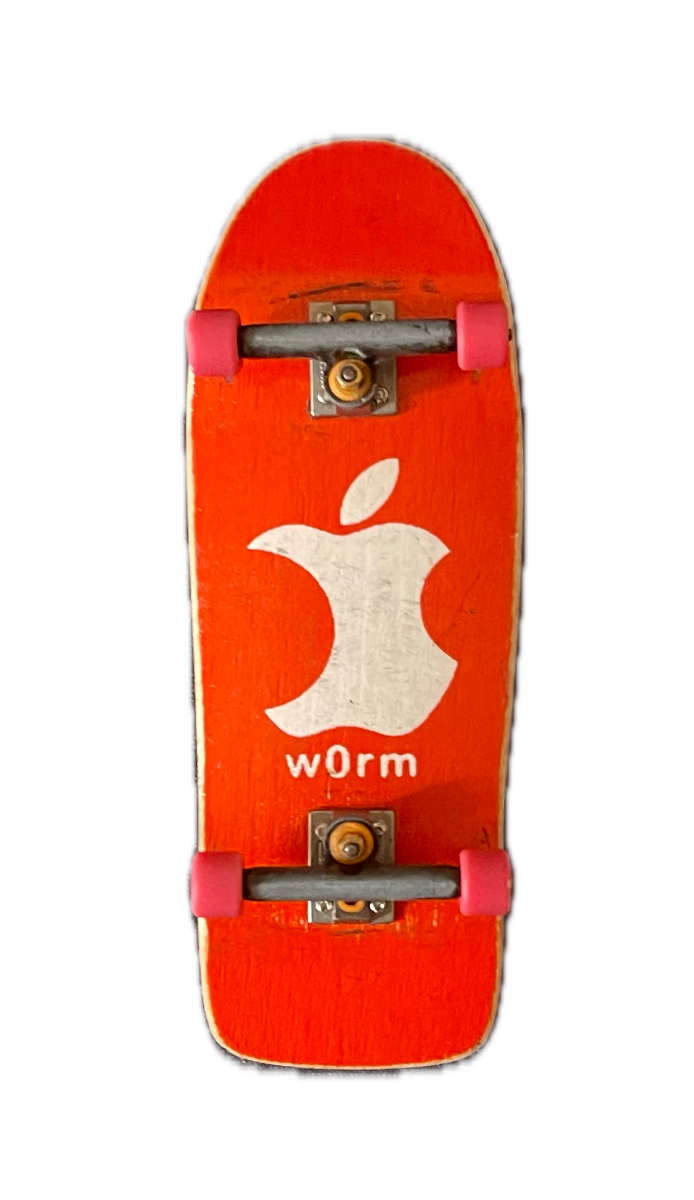
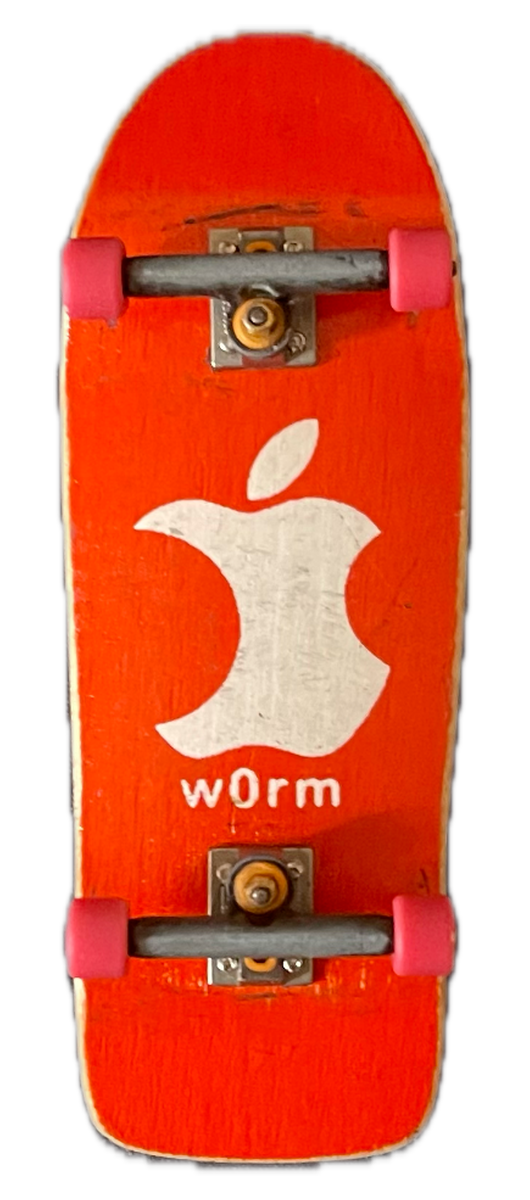
Collection: trim and refit the two new Worm decks; editor now trims transparent margins and fits decks to 530x1200

diff --git a/admin.js b/admin.js
@@ -325,12 +325,30 @@ app.addEventListener("click", (e) => {
 // Resize in the browser (max 1200px tall / 1400px wide) so the site stays fast.
 async function prepareImage(file) {
   const bitmap = await createImageBitmap(file);
-  const scale = Math.min(1, 1200 / bitmap.height, 1400 / bitmap.width);
-  const canvas = document.createElement("canvas");
-  canvas.width = Math.round(bitmap.width * scale);
-  canvas.height = Math.round(bitmap.height * scale);
-  canvas.getContext("2d").drawImage(bitmap, 0, 0, canvas.width, canvas.height);
   const isJpeg = file.type === "image/jpeg";
+  let src = bitmap, sx = 0, sy = 0, sw = bitmap.width, sh = bitmap.height;
+  // Transparent cutouts: trim the empty margin so every deck fills its frame the same way.
+  if (!isJpeg) {
+    const t = document.createElement("canvas"); t.width = sw; t.height = sh;
+    const tx = t.getContext("2d", { willReadFrequently: true }); tx.drawImage(bitmap, 0, 0);
+    const d = tx.getImageData(0, 0, sw, sh).data;
+    let x0 = sw, y0 = sh, x1 = -1, y1 = -1;
+    for (let y = 0; y < sh; y += 2) for (let x = 0; x < sw; x += 2)
+      if (d[(y * sw + x) * 4 + 3] > 24) { if (x < x0) x0 = x; if (x > x1) x1 = x; if (y < y0) y0 = y; if (y > y1) y1 = y; }
+    if (x1 > 0 && (x0 > 4 || y0 > 4 || x1 < sw - 5 || y1 < sh - 5)) { sx = x0; sy = y0; sw = x1 - x0 + 2; sh = y1 - y0 + 2; }
+  }
+  const canvas = document.createElement("canvas");
+  const ctx = canvas.getContext("2d");
+  if (!isJpeg && sh > sw * 1.6) {
+    // Tall decks: the same 530x1200 frame as the museum, filled to 96%.
+    canvas.width = 530; canvas.height = 1200;
+    const k = Math.min(530 / sw, 1200 / sh) * 0.96, w = sw * k, h = sh * k;
+    ctx.drawImage(src, sx, sy, sw, sh, (530 - w) / 2, (1200 - h) / 2, w, h);
+  } else {
+    const scale = Math.min(1, 1200 / sh, 1400 / sw);
+    canvas.width = Math.round(sw * scale); canvas.height = Math.round(sh * scale);
+    ctx.drawImage(src, sx, sy, sw, sh, 0, 0, canvas.width, canvas.height);
+  }
   const dataUrl = canvas.toDataURL(isJpeg ? "image/jpeg" : "image/png", 0.86);
   return { dataUrl, base64: dataUrl.split(",")[1], ext: isJpeg ? "jpg" : "png" };
 }

diff --git a/admin.html b/admin.html
@@ -53,6 +53,6 @@
   <input id="file" type="file" accept="image/png,image/jpeg,image/webp" hidden>
 
   <script src="https://cdn.jsdelivr.net/npm/sortablejs@1.15.2/Sortable.min.js"></script>
-  <script src="admin.js?v=55afffb0"></script>
+  <script src="admin.js?v=09ea9b7f"></script>
 </body>
 </html>
